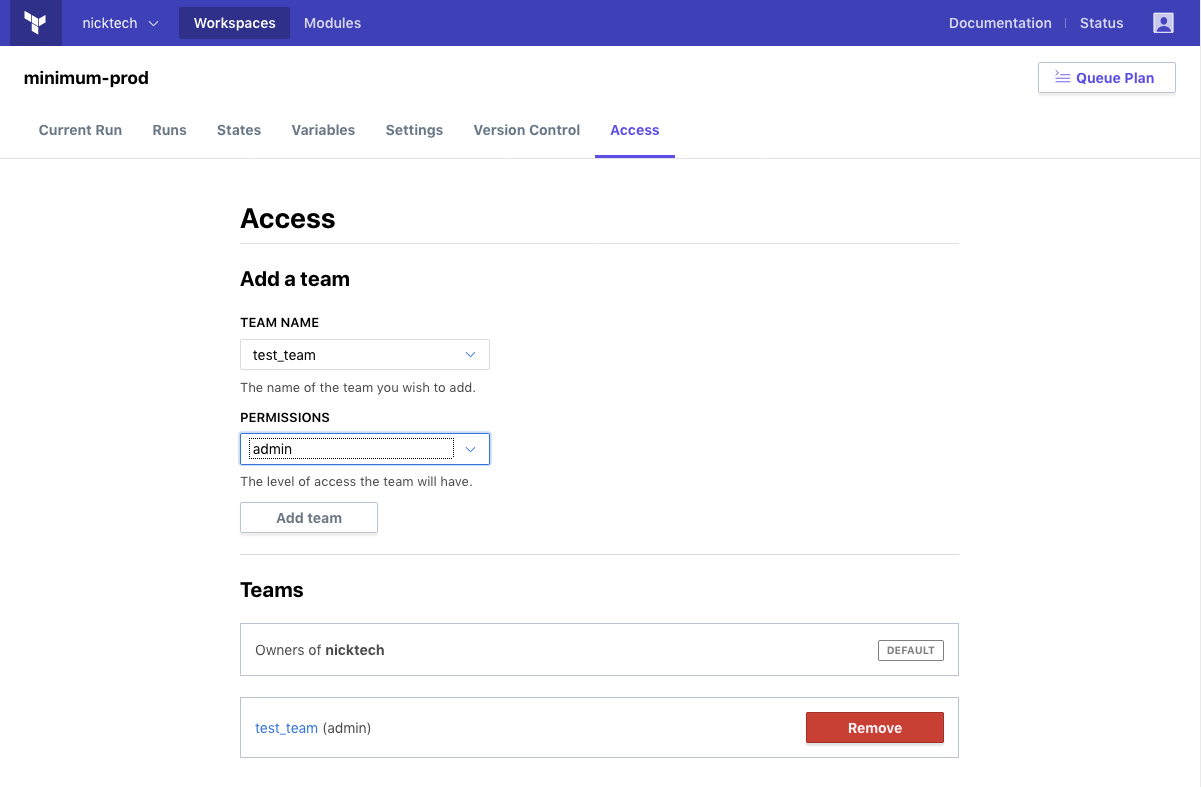
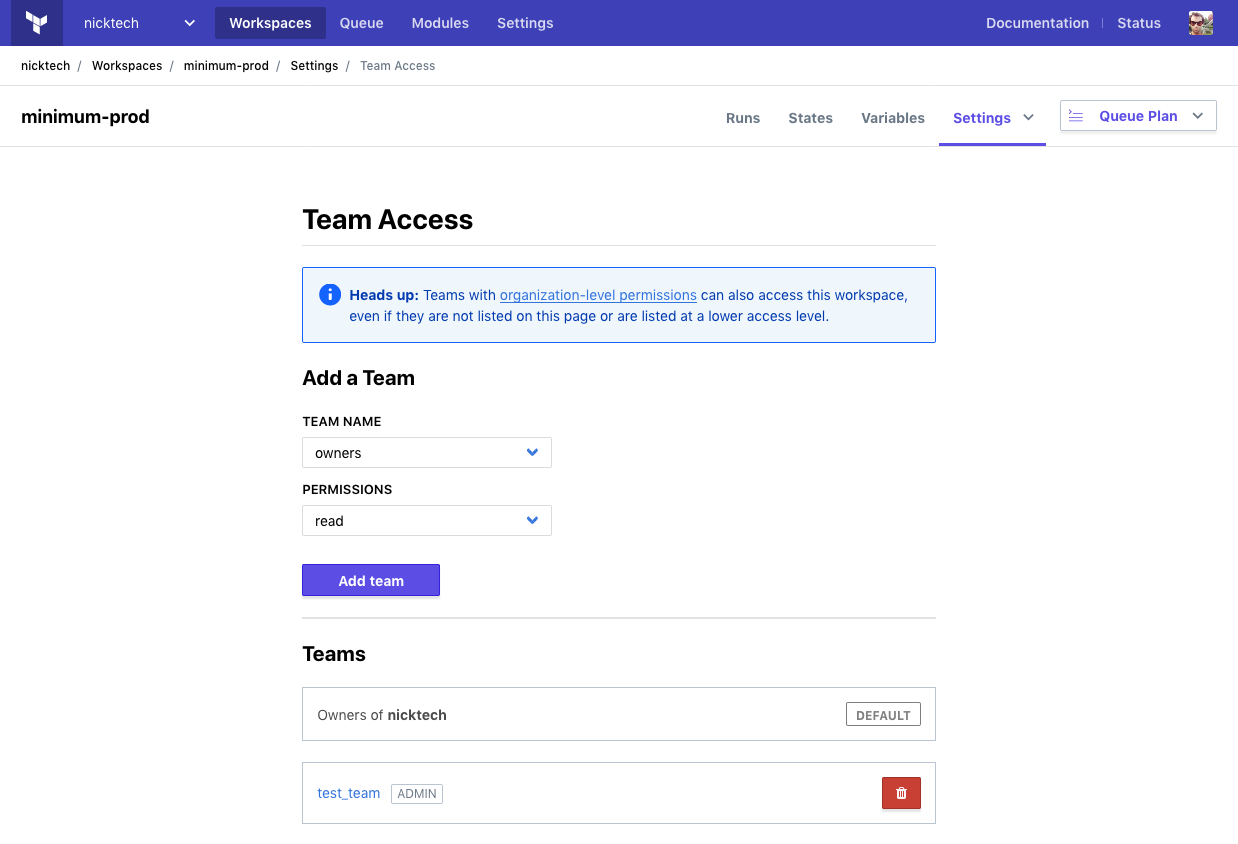
Update several pages and screenshots to account for the rearranged Settings menu
...I _think_ I got most of these. There are a few other changes in here as well,
since I noticed some out-of-date stuff in the Getting Started guide. I didn't go
deep on the remaining out-of-date screenshots in there, because they weren't
_meaningfully_ out of date yet and because I'm still hoping to use Mirage to
partially automate some of that pain.

diff --git a/content/source/docs/enterprise/workspaces/settings.html.md b/content/source/docs/enterprise/workspaces/settings.html.md
@@ -10,22 +10,29 @@ sidebar_current: "docs-enterprise2-workspaces-settings"
 
 Terraform Enterprise (TFE) workspaces can be reconfigured after creation.
 
-Each workspace's page has two tabs of settings:
+Workspace settings are separated into several pages, which are listed in the drop-down "Settings" menu in each workspace's header. The following groups of settings are available:
 
-- "Settings," for general configuration.
-- "Version Control," for managing the workspace's VCS integration.
+- "General", for basic configuration.
+- "Locking", for temporarily preventing new plans and applies.
+- "Notifications", for configuring run notifications.
+- "SSH Key", for configurations that use Git-based module sources.
+- "Team Access," for managing workspace permissions.
+- "Version Control", for managing the workspace's VCS integration.
+- "Destruction and Deletion", for removing a workspace and the infrastructure it manages.
 
 Changing settings requires [admin privileges](../users-teams-organizations/permissions.html) on the affected workspace.
 
-![Screenshot: a workspace page's tabs](./images/settings-tabs.png)
+![Screenshot: a workspace page's "Settings" menu](./images/settings-tabs.png)
 
-## General Settings
+## General
 
-The following settings are available in the "Settings" tab.
+The "General Settings" page configures a workspace's name, plus some details about how Terraform runs behave.
+
+After changing any of these settings, you must click the "Save settings" button at the bottom of the page.
 
 ### ID
 
-The permanent unique ID of the workspace, which cannot be changed. Workspace IDs are sometimes necessary when working with [TFE's API](../api/index.html).
+Every workspace has a unique ID that cannot be changed. Workspace IDs are sometimes necessary when working with [TFE's API](../api/index.html).
 
 Click the icon beside the ID to copy it to the clipboard.
 
@@ -35,21 +42,17 @@ The display name of the workspace.
 
 ~> **Important:** Since some API calls refer to a workspace by its name, changing the name can sometimes break existing integrations.
 
-After changing this setting you must click the "Save settings" button below the "Terraform Working Directory" field.
-
 ### Auto Apply and Manual Apply
 
 Whether or not TFE should automatically apply a successful Terraform plan. If you choose manual apply, an operator must confirm a successful plan and choose to apply it.
 
-After changing this setting you must click the "Save settings" button below the "Terraform Working Directory" field.
-
 ### Terraform Version
 
-Which version of Terraform to use for all operations in the workspace. You can choose "latest" to automatically update to new versions, or you can lock a workspace to any specific version.
+Which version of Terraform to use for all operations in the workspace. The default value is whichever release was current when the workspace was created.
 
-By default, new workspaces are locked to the current version of Terraform at the time of their creation. (You can specify a Terraform version when creating a workspace via the API.)
+You can choose "latest" to automatically update a workspace to new versions, or you can choose a specific version.
 
-After changing this setting you must click the "Save settings" button below the "Terraform Working Directory" field.
+-> **API:** You can specify a Terraform version when [creating a workspace](../api/workspaces.html#create-a-workspace) via the API.
 
 ### Terraform Working Directory
 
@@ -57,23 +60,13 @@ The directory where Terraform will execute, specified as a relative path from th
 
 -> **Note:** If you specify a working directory, TFE will still queue a plan for changes to the repository outside that working directory. This is because local modules are often outside the working directory, and changes to those modules should result in a new run. If you have a repo that manages multiple infrastructure components with different lifecycles and are experiencing too many runs, we recommend splitting the components out into independent repos. See [Repository Structure](./repo-structure.html) for more detailed explanations.
 
-After changing this setting you must click the "Save settings" button below it.
+## Locking
 
-### SSH Key
-
-If a workspace's configuration uses [Git-based module sources](/docs/modules/sources.html) to reference Terraform modules in private Git repositories, Terraform needs an SSH key to clone those repositories.
-
-This feature is documented in more detail in [Using SSH Keys for Cloning Modules](./ssh-keys.html).
-
-After changing this setting, you must click the "Update SSH key" button below it.
-
-### Workspace Lock
-
-~> **Important:** Unlike the rest of the settings on this page, locks can be managed with either write or admin privileges.
+~> **Important:** Unlike other settings, locks can also be managed by users with write privileges.
 
 If you need to prevent Terraform runs for any reason, you can lock a workspace. This prevents users with write access from manually queueing runs, prevents automatic runs due to changes to the backing VCS repo, and prevents the creation of runs via the API. To enable runs again, a user must unlock the workspace.
 
-Locking a workspace also restricts state uploads. In order to upload state, the workspace must be locked by the user who is uploading state. 
+Locking a workspace also restricts state uploads. In order to upload state, the workspace must be locked by the user who is uploading state.
 
 ~> **Important:** [The `atlas` backend][atlas-backend] ignores this restriction, and allows users with write access to modify state when the workspace is locked. To prevent confusion and accidents, avoid using the `atlas` backend in normal workflows and use the `remote` backend instead; see [TFE's CLI-driven workflow](../run/cli.html) for details.
 
@@ -83,28 +76,36 @@ Users with write access can lock and unlock a workspace, but can't unlock a work
 
 Locks are managed with a single "Lock/Unlock/Force unlock `<WORKSPACE NAME>`" button. TFE asks for confirmation when unlocking.
 
-### Workspace Delete
+## Notifications
 
-This section includes two buttons:
+The "Notifications" page allows TFE to send webhooks to external services whenever specific run events occur in a workspace.
 
-- "Queue destroy Plan"
-- "Delete from Terraform Enterprise"
+See [Run Notifications](./notifications.html) for detailed information about configuring notifications.
 
-In almost all cases, you should perform both actions in that order when destroying a workspace.
+## SSH Key
 
-Queueing a destroy plan destroys the infrastructure managed by a workspace. If you don't do this, the infrastructure resources will continue to exist but will become unmanaged; you'll need to go into your infrastructure providers to delete the resources manually.
+If a workspace's configuration uses [Git-based module sources](/docs/modules/sources.html) to reference Terraform modules in private Git repositories, Terraform needs an SSH key to clone those repositories. The "SSH Key" page lets you choose which key it should use.
 
-Before queueing a destroy plan, you must set a `CONFIRM_DESTROY` environment variable in the workspace with a value of `1`.
+See [Using SSH Keys for Cloning Modules](./ssh-keys.html) for detailed information about this page.
 
-## Version Control Settings
+## Team Access
 
-The following settings are available in the "Version Control" tab.
+The "Team Access" page configures which teams can perform which actions on a workspace.
 
-~> **Important:** After changing any of these settings you must click the "Update VCS settings" button at the  bottom of the page.
+See [Managing Access to Workspaces](./access.html) for detailed information.
+
+## Version Control
+
+The "Version Control" page configures the VCS repository (if any) that contains the workspace's Terraform configuration.
+
+After changing any of these settings, you must click the "Update VCS settings" button at the bottom of the page.
 
 ### VCS Connection and Repository
 
-You can use the "Select a VCS connection" buttons and "Repository" field to change which VCS repository the workspace gets configurations from. See [Creating Workspaces](./creating.html) for more details about selecting a VCS repository, and see [Connecting VCS Providers to Terraform Enterprise](../vcs/index.html) for more details about configuring VCS integrations.
+You can use the "Select a VCS connection" buttons and "Repository" field to change which VCS repository the workspace gets configurations from. See also:
+
+- [Creating Workspaces](./creating.html) for more details about selecting a VCS repository.
+- [Connecting VCS Providers to Terraform Enterprise](../vcs/index.html) for more details about configuring VCS integrations.
 
 ### VCS Branch
 
@@ -114,4 +115,17 @@ Which branch of the repository to use. If left blank, TFE will use the repositor
 
 Whether to recursively clone all of the repository's Git submodules when fetching a configuration.
 
--> **Note:** The [SSH key for cloning Git submodules](../vcs/index.html#ssh-keys) is set in the VCS provider settings for the organization, and is not necessarily related to the SSH key set in the workspace's settings.
+-> **Note:** The [SSH key for cloning Git submodules](../vcs/index.html#ssh-keys) is set in the VCS provider settings for the organization, and is not related to the workspace's SSH key for Terraform modules.
+
+## Destruction and Deletion
+
+This page includes two buttons:
+
+- "Queue destroy Plan"
+- "Delete from Terraform Enterprise"
+
+In almost all cases, you should perform both actions in that order when destroying a workspace.
+
+Queueing a destroy plan destroys the infrastructure managed by a workspace. If you don't do this, the infrastructure resources will continue to exist but will become unmanaged; you'll need to go into your infrastructure providers to delete the resources manually.
+
+Before queueing a destroy plan, you must go to the workspace's [variables page](./variables.html) and set an environment variable with a name of `CONFIRM_DESTROY` and a value of `1`.

diff --git a/content/source/docs/enterprise/getting-started/workspaces.html.md b/content/source/docs/enterprise/getting-started/workspaces.html.md
@@ -91,19 +91,20 @@ For more information, see [Variables](../workspaces/variables.html).
 
 ## Granting Access
 
-The user account that created your organization is part of the "owners" team, which can do any action on any workspace. Most of your colleagues don't need that level of access; instead, an administrator can give them access to the specific workspaces they need to use.
+The user account that created your organization is part of [the "owners" team](../users-teams-organizations/teams.html#the-owners-team), which can do any action on any workspace. Most of your colleagues don't need that level of access; instead, an administrator can give them access to the specific workspaces they need to use.
 
 TFE manages access with _teams._ In your organization's settings, you can create any number of teams and add users to them — earlier in this getting started guide, you might have [already created a team](./access.html#adding-other-users-to-an-organization) to bring other users into your organization. If you haven't done that yet, do it now.
 
-Once you have some teams, you can add them to a workspace by clicking the "Access" tab:
+Once you have some teams, you can add them to a workspace by choosing "Access" from the "Settings" menu:
 
-![managing team access to a workspace](./images/work-access.png)
+![managing team access to a workspace](../workspaces/images/access.png)
 
 A newly created workspace can't be used by anyone but the "owners" team; other teams can't even see it. To enable collaboration on a workspace, you must add other teams to it.
 
 To add a team to a workspace, select it from the dropdown menu and choose which permissions the team should have. There are three levels of permissions available:
 
-- **Read** access lets team members view the workspace's variables and settings, view its run history, and view its StateVersions and ConfigurationVersions. They can't queue run plans, apply existing run plans, or change any variables or settings.
+- **Read** access lets team members view the workspace's variables and settings, view its run history, and view its StateVersions and ConfigurationVersions. They can't queue plans, apply existing plans, or change any variables or settings.
+- **Plan** access lets team members queue plans (and run speculative plans from the command line), but doesn't let them approve infrastructure changes; a user with write access must confirm the plan.
 - **Write** access lets team members create and approve runs, and lock or unlock the workspace. It doesn't let them change variables or settings.
 - **Admin** access lets team members change variables and settings, add other teams to the workspace, remove other teams from the workspace, and delete the workspace.
 
@@ -113,16 +114,9 @@ To change a team's permissions on a workspace, you must first delete their exist
 
 ## Configuring a Workspace
 
-Each workspace has a "Settings" page (available from the top links when viewing that workspace), where you can change the behavior of the workspace. Currently, this page has the following settings:
+Each workspace has a "Settings" menu (available from the top links when viewing that workspace), which links to several pages where you can change the behavior of the workspace.
 
-- **Auto apply vs. manual apply:** By default, TFE only performs a Terraform plan when you start a run (either manually or by adding new commits to the repo). You can then view the outcome of the plan and decide whether to go forward with applying it.
-
-    This is called "manual apply." If you'd rather have TFE automatically apply successful plans, you can switch to "auto apply."
-- **Terraform version:** TFE can use any released version of Terraform to manage a workspace. Different workspaces can use different versions, and TFE won't automatically upgrade a workspace.
-
-    To stay up to date, you should visit workspace settings periodically and update the Terraform version.
-- **Workspace lock:** A user with write privileges on a workspace can _lock_ the workspace, which prevents plans and applies from running. Use this when recovering from a bad commit or performing other maintenance.
-- **Workspace delete:** When deleting a workspace, you usually also want to de-provision any infrastructure it's managing. This section of the settings has a button for queueing a destroy plan (to de-provision), and a button for deleting the workspace data. Note that destroy plans require an extra environment variable for confirmation; see the settings page for more details.
+For more information, see [Workspace Settings](../workspaces/settings.html).
 
 ## Navigating Workspaces
 

diff --git a/content/source/docs/enterprise/workspaces/access.html.md b/content/source/docs/enterprise/workspaces/access.html.md
@@ -12,7 +12,7 @@ Workspace access should be managed by [organization owners](../users-teams-organ
 
 ## Background
 
-TFE manages workspace permissions with teams, and uses three levels of permissions (read, write, and admin).
+TFE manages workspace permissions with teams, and uses four levels of permissions (read, plan, write, and admin). Additionally, the organization-level "manage workspaces" permission can grant a team admin permissions on every workspace.
 
 For more information see:
 
@@ -24,18 +24,16 @@ For more information see:
 -> **API:** See the [Team Access APIs](../api/team-access.html). <br/>
 **Terraform:** See the `tfe` provider's [`tfe_team_access` resource](/docs/providers/tfe/r/team_access.html).
 
-When a workspace is created, the only team able to access it is the owners team, with full admin permissions. The owners team can never be removed from a workspace.
+When a workspace is created, only [the owners team](../users-teams-organizations/teams.html#the-owners-team) and teams with the "manage workspaces" permission can access it, with full admin permissions. These teams' access can't be removed from a workspace.
 
-To manage other teams' access, go to the workspace's page and click the "Access" tab.
+To manage other teams' access, select "Team Access" from a workspace's "Settings" menu.
 
 ![Screenshot: a workspace's access settings page](./images/access.png)
 
 This page has a pair of drop-downs for adding new teams, and a list of teams that already have access.
 
-To add a team, select it from the first dropdown and choose which permissions it should have (read, write, or admin) with the second dropdown, then click the "Add team" button.
+To add a team, select it from the first dropdown and use the second dropdown to choose which permissions it should have (read, write, plan, or admin), then click the "Add team" button.
 
-To remove a team's permissions on the workspace, click the "Remove" button next to that team's entry in the teams list.
+To remove a team's permissions on the workspace, click the "🗑" (trash can) button next to that team's entry in the teams list.
 
-To change a team's permissions on the workspace, you must first remove the team, then re-add it.
-
-
+To change a team's permissions on the workspace, you must remove the team and re-add it.

diff --git a/content/source/docs/enterprise/workspaces/ssh-keys.html.md b/content/source/docs/enterprise/workspaces/ssh-keys.html.md
@@ -6,7 +6,9 @@ sidebar_current: "docs-enterprise2-workspaces-ssh-keys"
 
 # Using SSH Keys for Cloning Modules
 
-Terraform configurations can pull in Terraform modules from [a variety of different sources](/docs/modules/sources.html), and private Git repositories are the most common source for private modules.
+Terraform configurations can pull in Terraform modules from [a variety of different sources](/docs/modules/sources.html), and private Git repositories are a common source for private modules.
+
+-> **Note:** The [private module registry](../registry/index.html) is an easier way to manage private Terraform modules in TFE, and doesn't require setting SSH keys for workspaces. The rest of this page only applies to configurations that fetch modules directly from a private Git repository.
 
 To access a private Git repository, Terraform either needs login credentials (for HTTPS access) or an SSH key. Terraform Enterprise (TFE) can store private SSH keys centrally, and you can easily use them in any workspace that clones modules from a Git server.
 
@@ -44,11 +46,11 @@ To delete a key, find it in the list of keys and click its "Delete" button. Befo
 
 -> **API:** See the [Assign an SSH Key to a Workspace endpoint](../api/workspaces.html#assign-an-ssh-key-to-a-workspace).
 
-To assign a key to a workspace, navigate to that workspace's page and click the "Settings" link.
+To assign a key to a workspace, navigate to that workspace's page and choose "SSH Key" from the "Settings" menu.
 
-![TFE screenshot: the settings link on a workspace's page](./images/settings-tabs.png)
+![TFE screenshot: the settings menu on a workspace's page](./images/settings-tabs.png)
 
-Scroll down and locate the "SSH Key" dropdown menu. Select a named key from the list in this dropdown, then click the "Update SSH key" button directly below the menu.
+Select a named key from the "SSH Key" dropdown menu, then click the "Update SSH key" button.
 
 ![TFE screenshot: the SSH key dropdown menu](./images/keys-dropdown.png)
 
